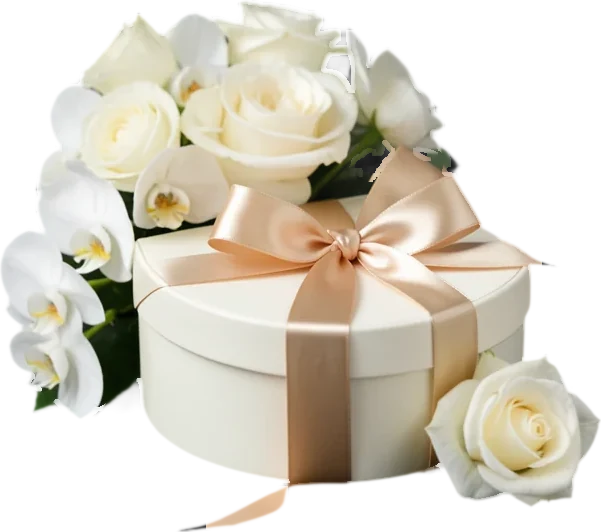
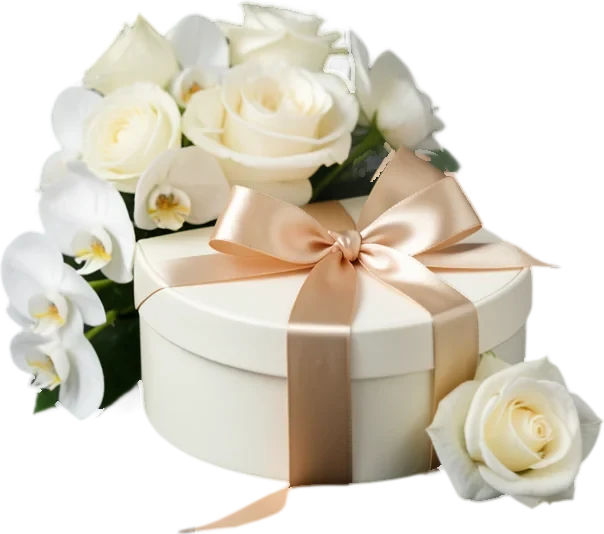
cutout.py: keep thin parts' own colour when cleaning the rim; recut t31 kit
Claude-Session: https://claude.ai/code/session_01V4RDDV9jqM6BBijw6Ese9L

diff --git a/my-wed/scripts/design/cutout.py b/my-wed/scripts/design/cutout.py
@@ -1,6 +1,6 @@
 """Cut a realistic AI object out of its plain studio background (for kits drawn in a realistic style,
 where colour-to-alpha would also eat white flowers and marble). Uses rembg's isnet-general-use model,
-then pulls the edge in by 2px and repaints the edge pixels with the object's own colour, so no grey rim of
+then pulls the edge in by 1px and repaints the edge pixels with the object's own colour, so no grey rim of
 the studio background shows on the page. Then crops to the object. Output: WebP with alpha.
 Run (in a Python env with rembg installed): python3 scripts/design/cutout.py <in> <out.webp>
 """
@@ -14,7 +14,7 @@ from rembg import new_session, remove
 def main(src, out):
     im = Image.open(src).convert("RGB")
     cut = remove(im, session=new_session("isnet-general-use"))
-    alpha = cut.split()[-1].filter(ImageFilter.MinFilter(5)).filter(ImageFilter.GaussianBlur(0.8))
+    alpha = cut.split()[-1].filter(ImageFilter.MinFilter(3)).filter(ImageFilter.GaussianBlur(0.8))
     # edge colour: the colour of the solid pixels just inside, spread outwards over the rim
     solid = alpha.point(lambda v: 255 if v > 230 else 0)
     inner = Image.composite(im, Image.new("RGB", im.size), solid)
@@ -22,7 +22,8 @@ def main(src, out):
     for _ in range(4):
         spread = spread.filter(ImageFilter.MaxFilter(3))
         weight = weight.filter(ImageFilter.MaxFilter(3))
-    rgb = Image.composite(im, spread, solid)
+    # thin parts (candles, stems) have no solid core nearby: they keep their own colour
+    rgb = Image.composite(im, Image.composite(spread, im, weight), solid)
     cut = Image.merge("RGBA", (*rgb.split(), alpha))
     box = cut.split()[-1].point(lambda v: 255 if v > 24 else 0).getbbox()
     cut.crop(box).save(out, quality=88, method=6)
